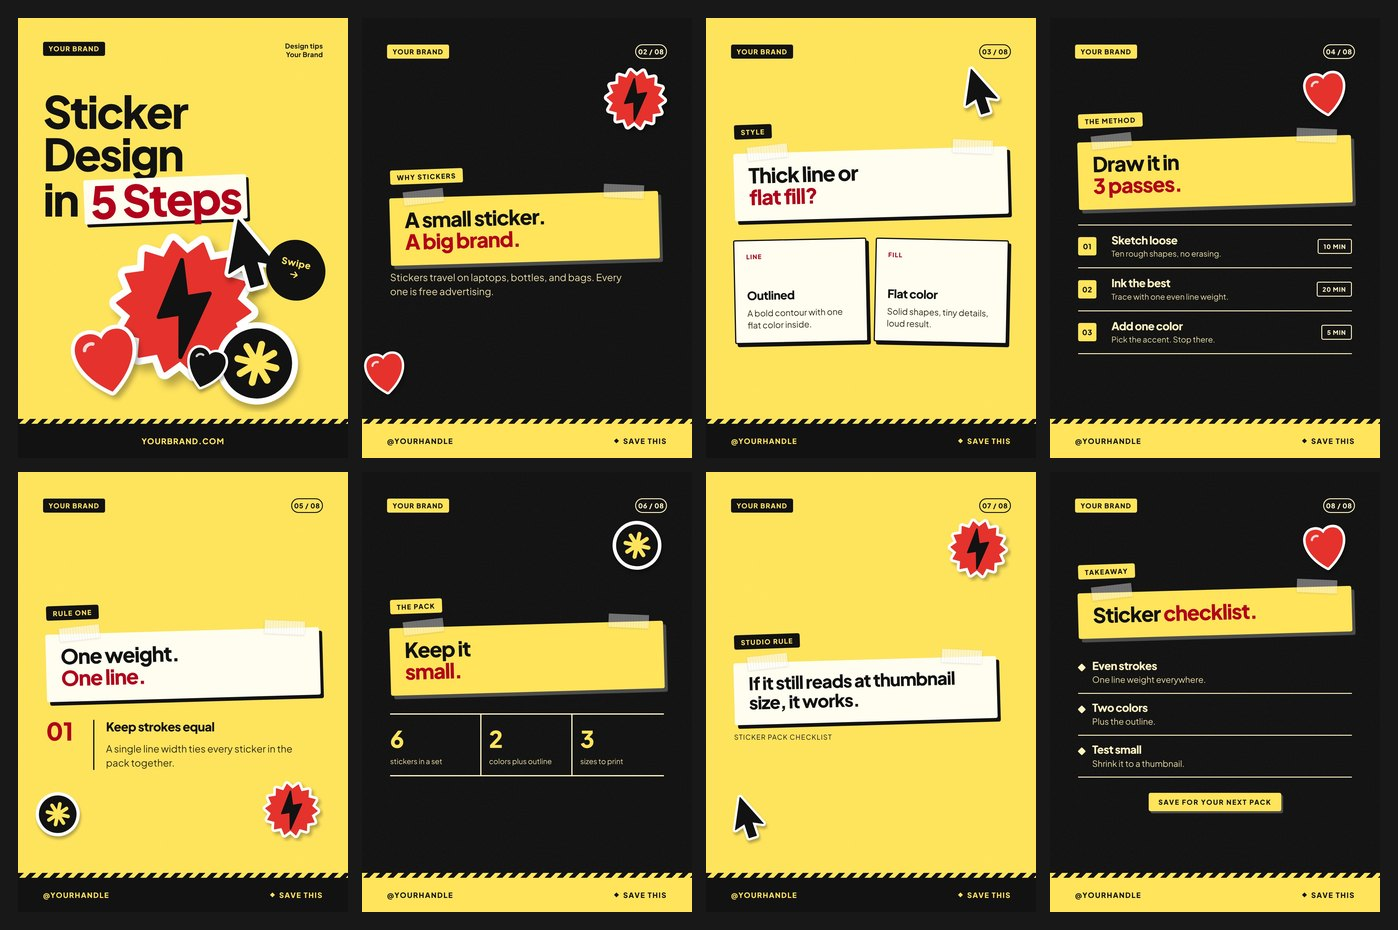
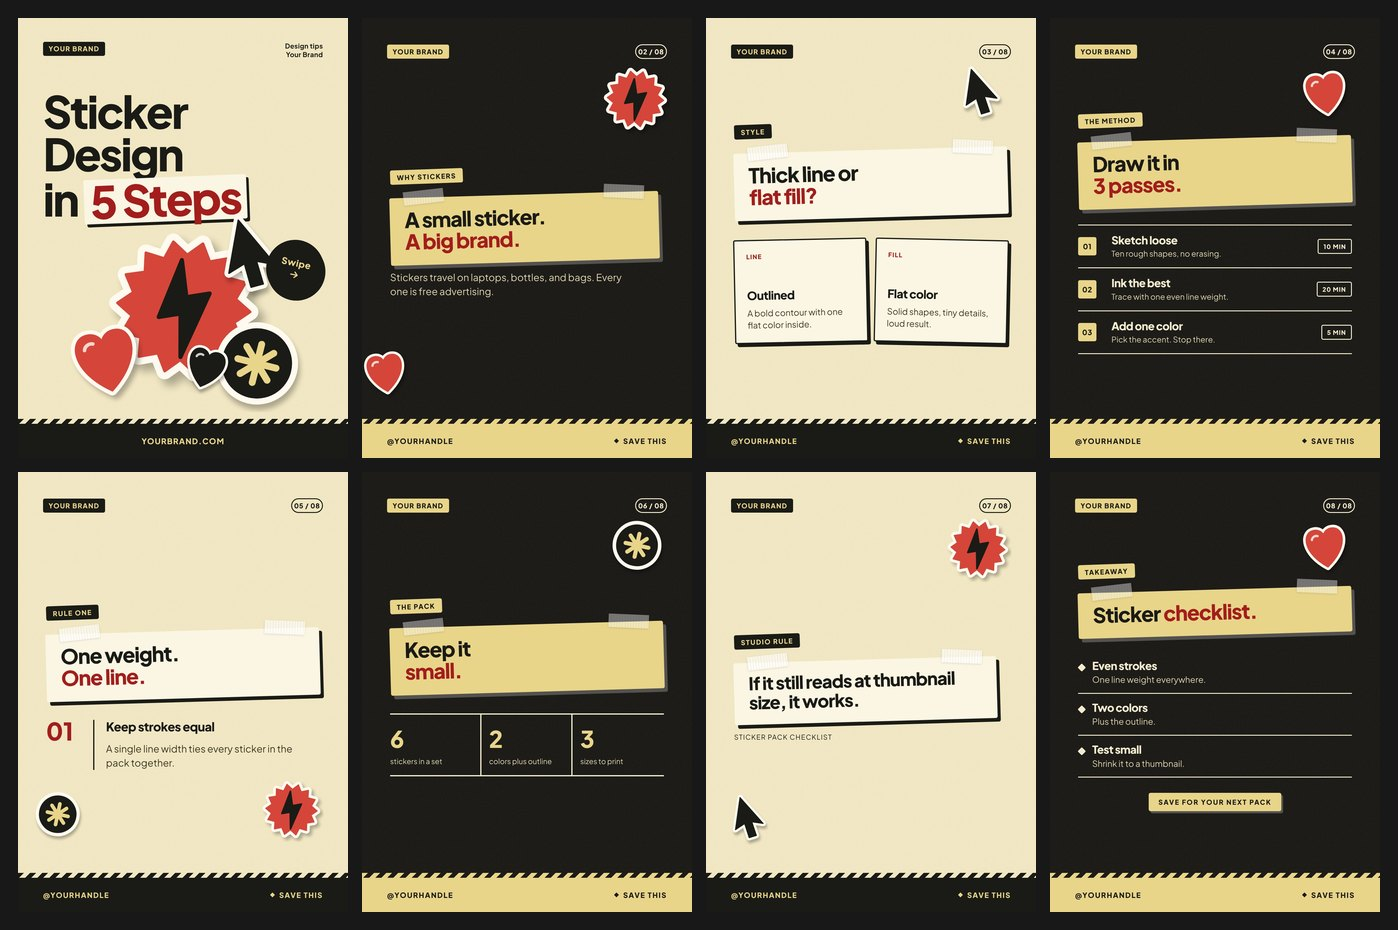
Template 08: calmer palette (butter and warm charcoal, softer red)
Claude-Session: https://claude.ai/code/session_01D7W7cVm7AXM5SnLqubMz6i

diff --git a/templates/08-tape-label/tokens.css b/templates/08-tape-label/tokens.css
@@ -2,56 +2,56 @@
    Tokens, type and decor only. Structure lives in design-system/system.css.
    Default object art is drawn from ./decor/ (SVG, relative to this file). */
 :root{
-  --bg:#ffe45c;
-  --bg2:#f7d63c;
-  --panel:#fffdf0;
-  --text:#121212;
-  --muted:#2e2a10;
-  --soft:#3d3708;
-  --accent:#b3001b;
-  --line:rgba(18,18,18,0.3);
-  --line2:rgba(18,18,18,0.16);
+  --bg:#f1e7c3;
+  --bg2:#e8dcb0;
+  --panel:#fbf6e4;
+  --text:#1a1a17;
+  --muted:#3a3722;
+  --soft:#4a4527;
+  --accent:#a31d1d;
+  --line:rgba(26,26,23,0.3);
+  --line2:rgba(26,26,23,0.16);
   --font-display:"Plus Jakarta Sans",-apple-system,"Inter","Helvetica Neue",Arial,sans-serif;
   --font-body:"Plus Jakarta Sans",-apple-system,"Inter","Helvetica Neue",Arial,sans-serif;
   --font-serif:"Plus Jakarta Sans",-apple-system,"Inter",sans-serif;
   --radius:8px;
-  --ink:#121212;
-  --out:#121212;
-  --hot:#e5322d;
+  --ink:#1a1a17;
+  --out:#1a1a17;
+  --hot:#d6453a;
   --on-hot:#ffffff;
-  --kb:#121212;
-  --kf:#ffe45c;
-  --label:#fffdf0;
-  --label-ink:#121212;
-  --label-accent:#b3001b;
-  --band:#121212;
-  --band-ink:#ffe45c;
-  --shd:#121212;
+  --kb:#1a1a17;
+  --kf:#e8d58a;
+  --label:#fbf6e4;
+  --label-ink:#1a1a17;
+  --label-accent:#a31d1d;
+  --band:#1a1a17;
+  --band-ink:#e8d58a;
+  --shd:#1a1a17;
   --tape:rgba(255,255,255,.62);
-  --cta-bg:#121212;
-  --cta-fg:#ffe45c;
+  --cta-bg:#1a1a17;
+  --cta-fg:#e8d58a;
 }
 .slide.mode-dark{
-  --bg:#121212;
-  --bg2:#1b1b1b;
-  --panel:#242424;
-  --text:#fff4c2;
-  --muted:#e8dca4;
-  --soft:#c4b87c;
-  --accent:#ffe45c;
-  --line:rgba(255,244,194,0.3);
-  --line2:rgba(255,244,194,0.16);
-  --kb:#ffe45c;
-  --kf:#121212;
-  --label:#ffe45c;
-  --label-ink:#121212;
-  --label-accent:#b3001b;
-  --band:#ffe45c;
-  --band-ink:#121212;
+  --bg:#1b1a17;
+  --bg2:#23221e;
+  --panel:#2b2a25;
+  --text:#f4ecce;
+  --muted:#ddd3ae;
+  --soft:#b9af8a;
+  --accent:#e8d58a;
+  --line:rgba(244,236,206,0.3);
+  --line2:rgba(244,236,206,0.16);
+  --kb:#e8d58a;
+  --kf:#1a1a17;
+  --label:#e8d58a;
+  --label-ink:#1a1a17;
+  --label-accent:#a31d1d;
+  --band:#e8d58a;
+  --band-ink:#1a1a17;
   --shd:rgba(255,255,255,.24);
   --tape:rgba(255,255,255,.40);
-  --cta-bg:#ffe45c;
-  --cta-fg:#121212;
+  --cta-bg:#e8d58a;
+  --cta-fg:#1a1a17;
 }
 
 h1,h2,h3{font-weight:800}

diff --git a/README.md b/README.md
@@ -72,7 +72,7 @@ Teal and peach. A big left-aligned headline over a stack of paper sheets, graph-
 *Default, `skin-sand`, `skin-slate`. Put the skin class on `<body>`.*
 
 ### 08 · Tape Label
-Yellow and black. Huge left-aligned type with one word on a tilted paper label, taped label headlines, die-cut stickers and a hazard-tape footer band. Good for tips, creative and playful topics.
+Butter and charcoal. Huge left-aligned type with one word on a tilted paper label, taped label headlines, die-cut stickers and a hazard-tape footer band. Good for tips, creative and playful topics.
 
 <img src="assets/templates/08-tape-label.jpg" width="860" alt="Template 08 · Tape Label: eight sample slides">
 
